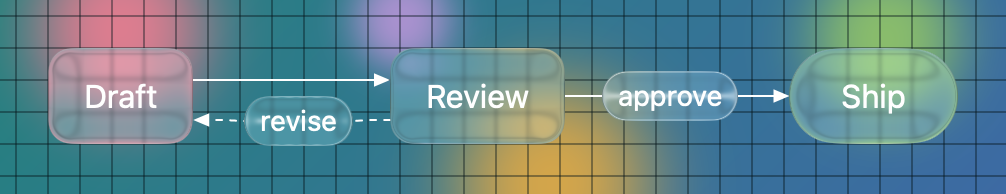
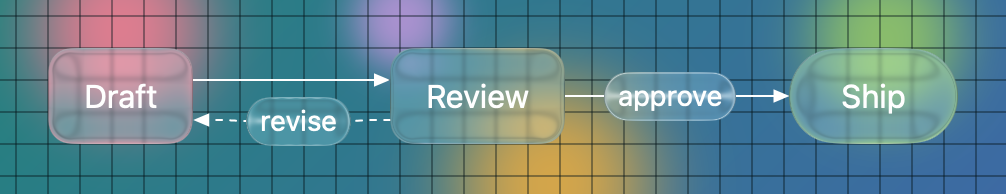
Draw the pictures a link to the website or the repository shows, under the sea, with how limu works in bubbles of glass

diff --git a/limumygo/examples/pictures/main.go b/limumygo/examples/pictures/main.go
@@ -7,8 +7,16 @@
 //	go run ./examples/pictures -out pictures
 //
 // The scene is written as SVG in currentColor, so that a page can color it. The others
-// are drawn with MyGo and written as PNG, at twice their size in DIPs by default. They are rendered on a Mac and committed, as MyGo
-// sets text with Pango on Linux and would draw them otherwise.
+// are drawn with MyGo and written as PNG, at twice their size in DIPs by default.
+//
+// Given the website's font, Hanken Grotesk, as a TrueType file, it also draws the pictures
+// a link to the website or to the repository shows: og.png, 1200 by 630, and github.png,
+// 1280 by 640, for the repository's social preview.
+//
+//	go run ./examples/pictures -font HankenGrotesk.ttf
+//
+// The pictures are rendered on a Mac and committed, as MyGo sets text with Pango on Linux
+// and would draw them otherwise.
 package main
 
 import (
@@ -23,6 +31,7 @@ import (
 
 	"github.com/egoist/mygo/plugins/glass"
 	"github.com/egoist/mygo/ui"
+	"github.com/egoist/mygo/ui/shader"
 	"github.com/firede/limu"
 	"github.com/firede/limu/layout"
 	"github.com/firede/limu/limumygo"
@@ -42,6 +51,8 @@ const pad = 16
 func main() {
 	out := flag.String("out", "../website/public/pictures", "the directory to write the pictures to")
 	scale := flag.Float64("scale", 2, "device pixels per DIP of the PNG pictures")
+	font := flag.String("font", "", "Hanken Grotesk as a TrueType file, to draw the pictures for links with")
+	mark := flag.String("mark", "../website/public/mark.svg", "limu's mark as SVG")
 	flag.Parse()
 
 	sc, err := limu.Layout(source, &layout.Options{Measurer: limumygo.DefaultFonts})
@@ -58,14 +69,39 @@ func main() {
 	}
 	write("scene.svg", []byte(wireframe(sc)))
 	k := float32(*scale)
-	for _, p := range []struct {
+	pngs := []struct {
 		name string
 		img  *image.RGBA
 	}{
 		{"kohu.png", render(sc, themed(style.Kohu()), k)},
 		{"kohu-dark.png", render(sc, themed(style.KohuDark()), k)},
-		{"glass.png", render(sc, glassy(), k)},
-	} {
+		{"glass.png", render(sc, glassy(limumygo.DefaultFonts), k)},
+	}
+	if *font != "" {
+		data, err := os.ReadFile(*font)
+		if err != nil {
+			log.Fatal(err)
+		}
+		if err := ui.RegisterFont(data, cardFont); err != nil {
+			log.Fatal(err)
+		}
+		svg, err := os.ReadFile(*mark)
+		if err != nil {
+			log.Fatal(err)
+		}
+		m, err := ui.ParseSVG(svg)
+		if err != nil {
+			log.Fatal(err)
+		}
+		pngs = append(pngs, struct {
+			name string
+			img  *image.RGBA
+		}{"og.png", card(1200, 630, m)}, struct {
+			name string
+			img  *image.RGBA
+		}{"github.png", card(1280, 640, m)})
+	}
+	for _, p := range pngs {
 		var b strings.Builder
 		if err := png.Encode(&b, p.img); err != nil {
 			log.Fatal(err)
@@ -100,19 +136,47 @@ func render(sc *scene.Scene, l look, scale float32) *image.RGBA {
 	}, w, h, scale)
 }
 
-// glassy is Liquid Glass: soft colors and a grid under the diagram, its lines and text in
-// white, and each node and edge label a pane of clear glass, which what is under it shows
-// through, bent at its rim.
-func glassy() look {
+// glassy is Liquid Glass, with text in fonts: the canvas under the diagram, its lines and
+// text in white, and each node and edge label a pane of clear glass, which what is under it
+// shows through, bent at its rim.
+func glassy(fonts *limumygo.Fonts) look {
 	th := *style.Kohu()
 	th.Line = style.Hex("#ffffff")
 	th.Fg = style.Hex("#ffffff")
-	const away = 4000
-	ground := func(p *ui.Painter, r ui.Rect) {
+	draw := func(p *limumygo.Painter, it *scene.Item, s style.Resolved, next func()) {
+		var r ui.Rect
+		switch {
+		case it.Kind == scene.Node:
+			r = p.Rect(it.Box)
+		case it.Kind == scene.Text && it.Label != nil && !it.Label.Empty():
+			b, em := it.LabelBox(), it.Label.Size
+			r = p.Rect(scene.Rect{X: b.X - em/2, Y: b.Y - em/8, W: b.W + em, H: b.H + em/4})
+		default:
+			next()
+			return
+		}
+		// A box's corners are rounded by a quarter of its height, and any other outline, as
+		// a stadium's, is rounded fully.
+		radius := r.H / 2
+		if len(it.Parts) > 0 && it.Parts[0].Path == nil {
+			radius = r.H / 4
+		}
+		glass.Paint(p.Painter, r, radius, glass.Glass{Style: glass.Clear})
+		p.Label(it, s)
+	}
+	return look{ground: canvas(16), opts: &limumygo.Options{Look: style.Look{Theme: &th}, Fonts: fonts, Draw: draw}}
+}
+
+// canvas paints what is under the glass: a gradient of limu's teal and blue, glows of the
+// series colors, which the glass bends where it passes over them, and a grid of dark lines
+// cell DIPs apart, as on a canvas, which it bends at its rim, and which the white of a
+// diagram stands out over.
+func canvas(cell float32) func(p *ui.Painter, r ui.Rect) {
+	// A glow is the shadow of a disc far to the left, cast back onto the picture, as a
+	// shadow is not painted under what casts it.
+	const away = 8000
+	return func(p *ui.Painter, r ui.Rect) {
 		p.FillGradient(r, ui.LinearGradient{From: ui.Hex("#23817d"), To: ui.Hex("#3d6aa3"), Angle: 135, Oklab: true}, 0)
-		// Glows of the series colors, which the glass bends where it passes over them: the
-		// shadow of a disc far to the left, cast back onto the picture, as a shadow is not
-		// painted under what casts it.
 		for _, g := range []struct {
 			x, y, d float32
 			c       string
@@ -121,38 +185,138 @@ func glassy() look {
 			b := ui.Rect{X: r.X + g.x*r.W - d/2 - away, Y: r.Y + g.y*r.H - d/2, W: d, H: d}
 			p.Shadow(b, d/2, away, 0, d/2, d/8, ui.Hex(g.c))
 		}
-		// A grid of dark lines, as on a canvas, which the glass bends at its rim, and which the
-		// white of the diagram stands out over.
 		line := ui.RGBA(6, 21, 24, 0.4)
-		for x := r.X + 8; x < r.X+r.W; x += 16 {
+		for x := r.X + cell/2; x < r.X+r.W; x += cell {
 			p.Line(x, r.Y, x, r.Y+r.H, 1.25, line)
 		}
-		for y := r.Y + 8; y < r.Y+r.H; y += 16 {
+		for y := r.Y + cell/2; y < r.Y+r.H; y += cell {
 			p.Line(r.X, y, r.X+r.W, y, 1.25, line)
 		}
 	}
-	draw := func(p *limumygo.Painter, it *scene.Item, s style.Resolved, next func()) {
-		var r ui.Rect
-		switch {
-		case it.Kind == scene.Node:
-			r = p.Rect(it.Box)
-		case it.Kind == scene.Text && it.Label != nil && !it.Label.Empty():
-			b := it.LabelBox()
-			r = p.Rect(scene.Rect{X: b.X - 8, Y: b.Y - 2, W: b.W + 16, H: b.H + 4})
-		default:
-			next()
-			return
-		}
-		// A box keeps its corners rounded as the glass's, and any other outline, as a
-		// stadium's, rounds them fully.
-		radius := r.H / 2
-		if len(it.Parts) > 0 && it.Parts[0].Path == nil {
-			radius = min(radius, p.Len(12))
-		}
-		glass.Paint(p.Painter, r, radius, glass.Glass{Style: glass.Clear})
-		p.Label(it, s)
+}
+
+// cardFont is the family the website's font is registered as.
+const cardFont = "Hanken Grotesk"
+
+// cardSource is the diagram a picture for links draws: how limu works, read from the
+// bottom up, as the bubbles it is drawn in rise.
+const cardSource = `flowchart BT
+  mermaid((Mermaid)) -->|layout| scene((Scene))
+  scene --> mygo((MyGo))
+  scene --> svg((SVG))`
+
+// water is the shader of the sea a picture for links is set in: light near the surface
+// and deep below, with shafts of light slanting down, and caustics, the net of light the
+// surface throws, which fade with depth.
+var water = shader.MustCompile(`package main
+
+var Time float
+
+// caustic is the brightness of the caustics at uv, at time t.
+func caustic(uv vec2, t float) float {
+	p := mod(uv*6.28318, 6.28318) - 250.0
+	i := p
+	c := 1.0
+	inten := 0.005
+	for n := 0; n < 5; n++ {
+		tt := t * (1.0 - 3.5/float(n+1))
+		i = p + vec2(cos(tt-i.x)+sin(tt+i.y), sin(tt-i.y)+cos(tt+i.x))
+		c += 1.0 / length(vec2(p.x/(sin(i.x+tt)/inten), p.y/(cos(i.y+tt)/inten)))
 	}
-	return look{ground: ground, opts: &limumygo.Options{Look: style.Look{Theme: &th}, Fonts: limumygo.DefaultFonts, Draw: draw}}
+	c /= 5.0
+	c = 1.17 - pow(c, 1.4)
+	return clamp(pow(abs(c), 8.0), 0.0, 1.0)
+}
+
+func Fragment(dst vec4, pos vec2) vec4 {
+	size := rectSize()
+	depth := pos.y / size.y
+	col := mix(vec3(0.20, 0.56, 0.62), vec3(0.08, 0.40, 0.49), smoothstep(0.0, 0.55, depth))
+	col = mix(col, vec3(0.03, 0.15, 0.24), smoothstep(0.45, 1.0, depth))
+	x := pos.x/size.y + depth*0.45
+	rays := 0.5 + 0.5*sin(x*7.0+4.0)*sin(x*3.1+0.4)
+	col += vec3(0.60, 0.90, 0.88) * pow(rays, 4.0) * 0.24 * (1.0 - smoothstep(0.0, 0.85, depth))
+	c := caustic(pos/size.y*2.4, Time)
+	col += vec3(0.75, 1.0, 0.95) * c * 0.30 * (1.0 - smoothstep(0.0, 0.42, depth))
+	return vec4(col, 1.0)
+}
+`)
+
+// bubble paints a bubble of clear glass over r, rounded by radius, with a glint of the
+// light above, up and to the left.
+func bubble(p *ui.Painter, r ui.Rect, radius float32) {
+	glass.Paint(p, r, radius, glass.Glass{Style: glass.Clear})
+	// The glint is the shadow of a dot far to the left, cast back, as for canvas's glows.
+	const away = 8000
+	g := min(r.W, r.H) * 0.16
+	p.Shadow(ui.Rect{X: r.X + r.W*0.24 - away, Y: r.Y + r.H*0.2, W: g, H: g}, g/2, away, 0, g*0.6, 0, ui.RGBA(255, 255, 255, 0.85))
+}
+
+// card draws the picture a link shows, w by h DIPs, under the sea: limu's name, what it is
+// and where it is on the left, and on the right how it works, in bubbles rising from limu
+// kohu, drawn with limu's mark, that grows from the floor. Its text is in the website's
+// font.
+func card(w, h int, mark *ui.SVG) *image.RGBA {
+	W, H := float32(w), float32(h)
+	k := H / 630 // what the sizes below, set for a picture 630 high, are multiplied by
+	fonts := limumygo.NewFonts(cardFont, "monospace")
+	sc, err := limu.Layout(cardSource, &layout.Options{Measurer: fonts, FontSize: float64(22 * k), KeepDirection: true})
+	if err != nil {
+		log.Fatal(err)
+	}
+	th := *style.Kohu()
+	th.Line = style.Hex("#ffffff")
+	th.Fg = style.Hex("#ffffff")
+	opts := &limumygo.Options{
+		Look: style.Look{Theme: &th, Overrides: style.Overrides{
+			"flowchart.edge": {StrokeWidth: style.N(float64(2 * k)), StrokeOpacity: style.N(0.75)},
+		}},
+		Fonts: fonts,
+		// Each node and edge label is a bubble.
+		Draw: func(p *limumygo.Painter, it *scene.Item, s style.Resolved, next func()) {
+			var r ui.Rect
+			switch {
+			case it.Kind == scene.Node:
+				r = p.Rect(it.Box)
+			case it.Kind == scene.Text && it.Label != nil && !it.Label.Empty():
+				b, em := it.LabelBox(), it.Label.Size
+				r = p.Rect(scene.Rect{X: b.X - em/2, Y: b.Y - em/8, W: b.W + em, H: b.H + em/4})
+			default:
+				next()
+				return
+			}
+			bubble(p.Painter, r, r.H/2)
+			p.Label(it, s)
+		},
+	}
+	white := ui.RGB(255, 255, 255)
+	return ui.Render(func(c *ui.Context) {
+		ui.Box(c).Size(W, H).Draw(func(p *ui.Painter, r ui.Rect) {
+			water.Draw(p, r, shader.Options{Uniforms: map[string]any{"Time": 4.2}})
+			// Limu kohu, the far ones in the water's color, and the near ones in limu's.
+			deep := ui.Hex("#0e3a4a")
+			for _, a := range []struct {
+				x, s, far float32
+				c         string
+			}{{0.62, 170, 0.55, "#b5435c"}, {0.98, 200, 0.5, "#c0668a"}, {0.88, 210, 0.3, "#b5435c"}, {0.76, 170, 0, "#a92e4a"}, {0.94, 150, 0, "#c0668a"}, {0.67, 120, 0.15, "#c0668a"}} {
+				s := a.s * k
+				p.Icon(mark, ui.Rect{X: r.X + a.x*W - s/2, Y: r.Y + H - s*0.92, W: s, H: s}, ui.Hex(a.c).Mix(deep, a.far))
+			}
+			// Small bubbles rising from the limu at 0.76 to the diagram's first, which stands
+			// over it.
+			for _, b := range []struct{ x, y, d float32 }{{0.764, 0.735, 7}, {0.758, 0.708, 10}} {
+				d := b.d * k
+				bubble(p, ui.Rect{X: r.X + b.x*W - d/2, Y: r.Y + b.y*H - d/2, W: d, H: d}, d/2)
+			}
+			limumygo.Paint(p, sc, r.X+0.76*W-float32(sc.Width)/2, r.Y+22*k, opts)
+			x := r.X + 80*k
+			p.RichText(x-6*k, r.Y+150*k, 0, ui.Span{Text: "limu", Font: cardFont, Size: 128 * k, Weight: 700, Color: white})
+			p.RichText(x, r.Y+330*k, 0,
+				ui.Span{Text: "A diagram layout engine in Go.\n", Font: cardFont, Size: 38 * k, Weight: 600, Color: white},
+				ui.Span{Text: "Drawn natively with MyGo, or as SVG.", Font: cardFont, Size: 38 * k, Weight: 400, Color: white.Alpha(0.85)})
+			p.RichText(x, r.Y+H-90*k, 0, ui.Span{Text: "limu.firede.com", Font: cardFont, Size: 26 * k, Weight: 500, Color: white.Alpha(0.8)})
+		})
+	}, w, h, 1)
 }
 
 // wireframe writes the scene as SVG with no style: each item's box dashed, its parts and

diff --git a/docs/website.md b/docs/website.md
@@ -72,6 +72,18 @@ document shows where a paragraph holds nothing but their images, as Architecture
 After the pictures come the code, a switch between MyGo and SVG with MyGo first, cards to
 the examples, the playground, Getting started and Theming, and a paragraph on limu and Pele.
 
+Given the website's font, Hanken Grotesk, as a TrueType file, the same program draws the
+picture a link shows, under the sea that limu is named for: water drawn by a shader of
+MyGo's, light near the surface, with shafts of light and the caustics the surface throws;
+limu kohu, drawn with limu's mark, growing from the floor; on the left limu's name, the
+lede's first sentence, a line on drawing with MyGo or as SVG, and the address; and on the
+right how limu works, Mermaid, layout, the scene, MyGo and SVG, laid out by limu from the
+bottom up and drawn as bubbles of clear glass, which rise from the limu and bend the light
+behind them. `og.png`, 1200 by 630, is every page's `og:image` and `twitter:image`, with a
+large card; `github.png`, 1280 by 640, is the repository's social preview, which GitHub
+takes only through its settings. The font is not in the repository: the program reads the
+file it is given, as Google Fonts serves it.
+
 The pictures drawn natively are rendered with `ui.Render`, as limumygo's tests render
 theirs, on a Mac, and committed: MyGo sets text with Pango on Linux, so CI would draw them
 otherwise.
